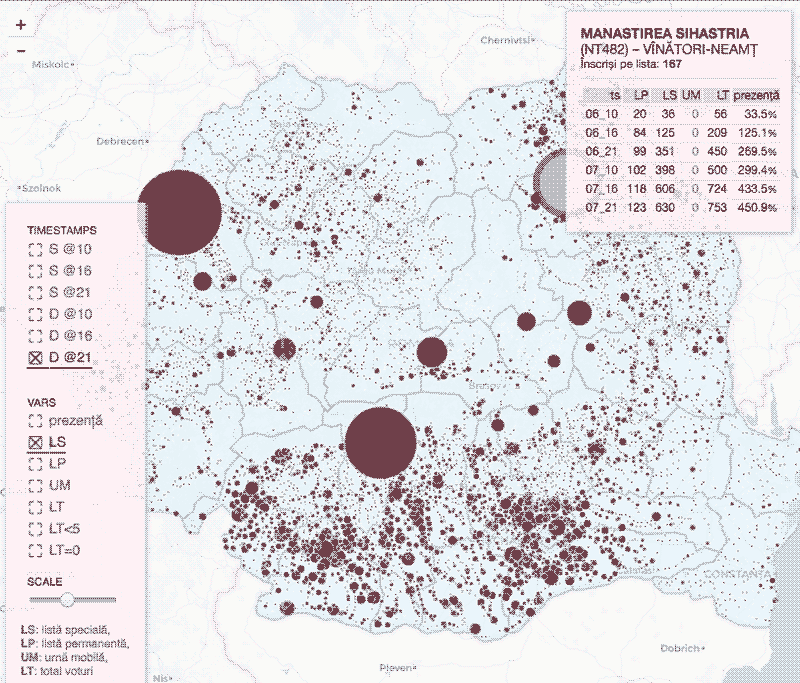
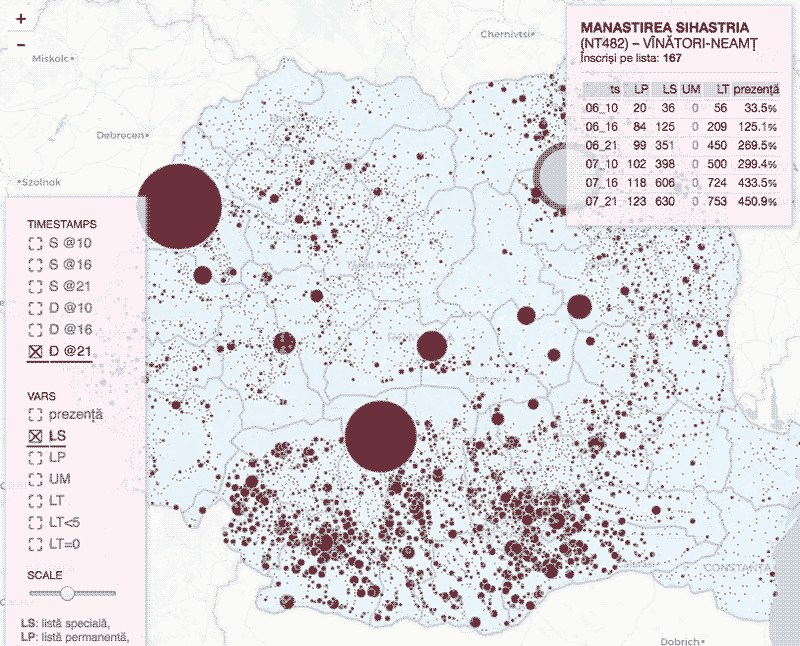
add attribution

diff --git a/index.html b/index.html
@@ -2,11 +2,22 @@
 
 <head>
   <meta http-equiv="Content-Type" content="text/html; charset=UTF-8" />
-  <title>Prezență vot</title>
+  <title>Prezență vot – Vot Corect</title>
   <meta charset="utf-8">
+  <meta property="og:image" content="pp/assets/img/screenshot.png" />
   <meta name="viewport" content="width=device-width, initial-scale=1, shrink-to-fit=no">
   <link rel="icon" type="image/png" sizes="32x32" href="app/assets/img/stats-icon-64px.png">
   <link rel="stylesheet" href="app/assets/style.css">
+  <script>
+  (function(i,s,o,g,r,a,m){i['GoogleAnalyticsObject']=r;i[r]=i[r]||function(){
+  (i[r].q=i[r].q||[]).push(arguments)},i[r].l=1*new Date();a=s.createElement(o),
+  m=s.getElementsByTagName(o)[0];a.async=1;a.src=g;m.parentNode.insertBefore(a,m)
+  })(window,document,'script','https://www.google-analytics.com/analytics.js','ga');
+
+  ga('create', 'UA-23992992-2', 'auto');
+  ga('send', 'pageview');
+
+</script>
 </head>
 
 <body>

diff --git a/app/totallynotgay.js b/app/totallynotgay.js
@@ -52,6 +52,8 @@
   L.tileLayer.provider('CartoDB.Positron').addTo(map);
   // L.tileLayer.provider('OpenStreetMap.Mapnik').addTo(map);
 
+map.attributionControl.addAttribution("<b>sursă date</b>: <a target='_blank' href='http://prezenta.bec.ro'>Biroul Electoral Central</a>");
+
   selectedLayer = document.getElementById('controlInfo').getAttribute("ts");
   selectedVar = document.getElementById('controlInfo').getAttribute("xvar");
   scaleLevel = document.getElementById('scale').value;
